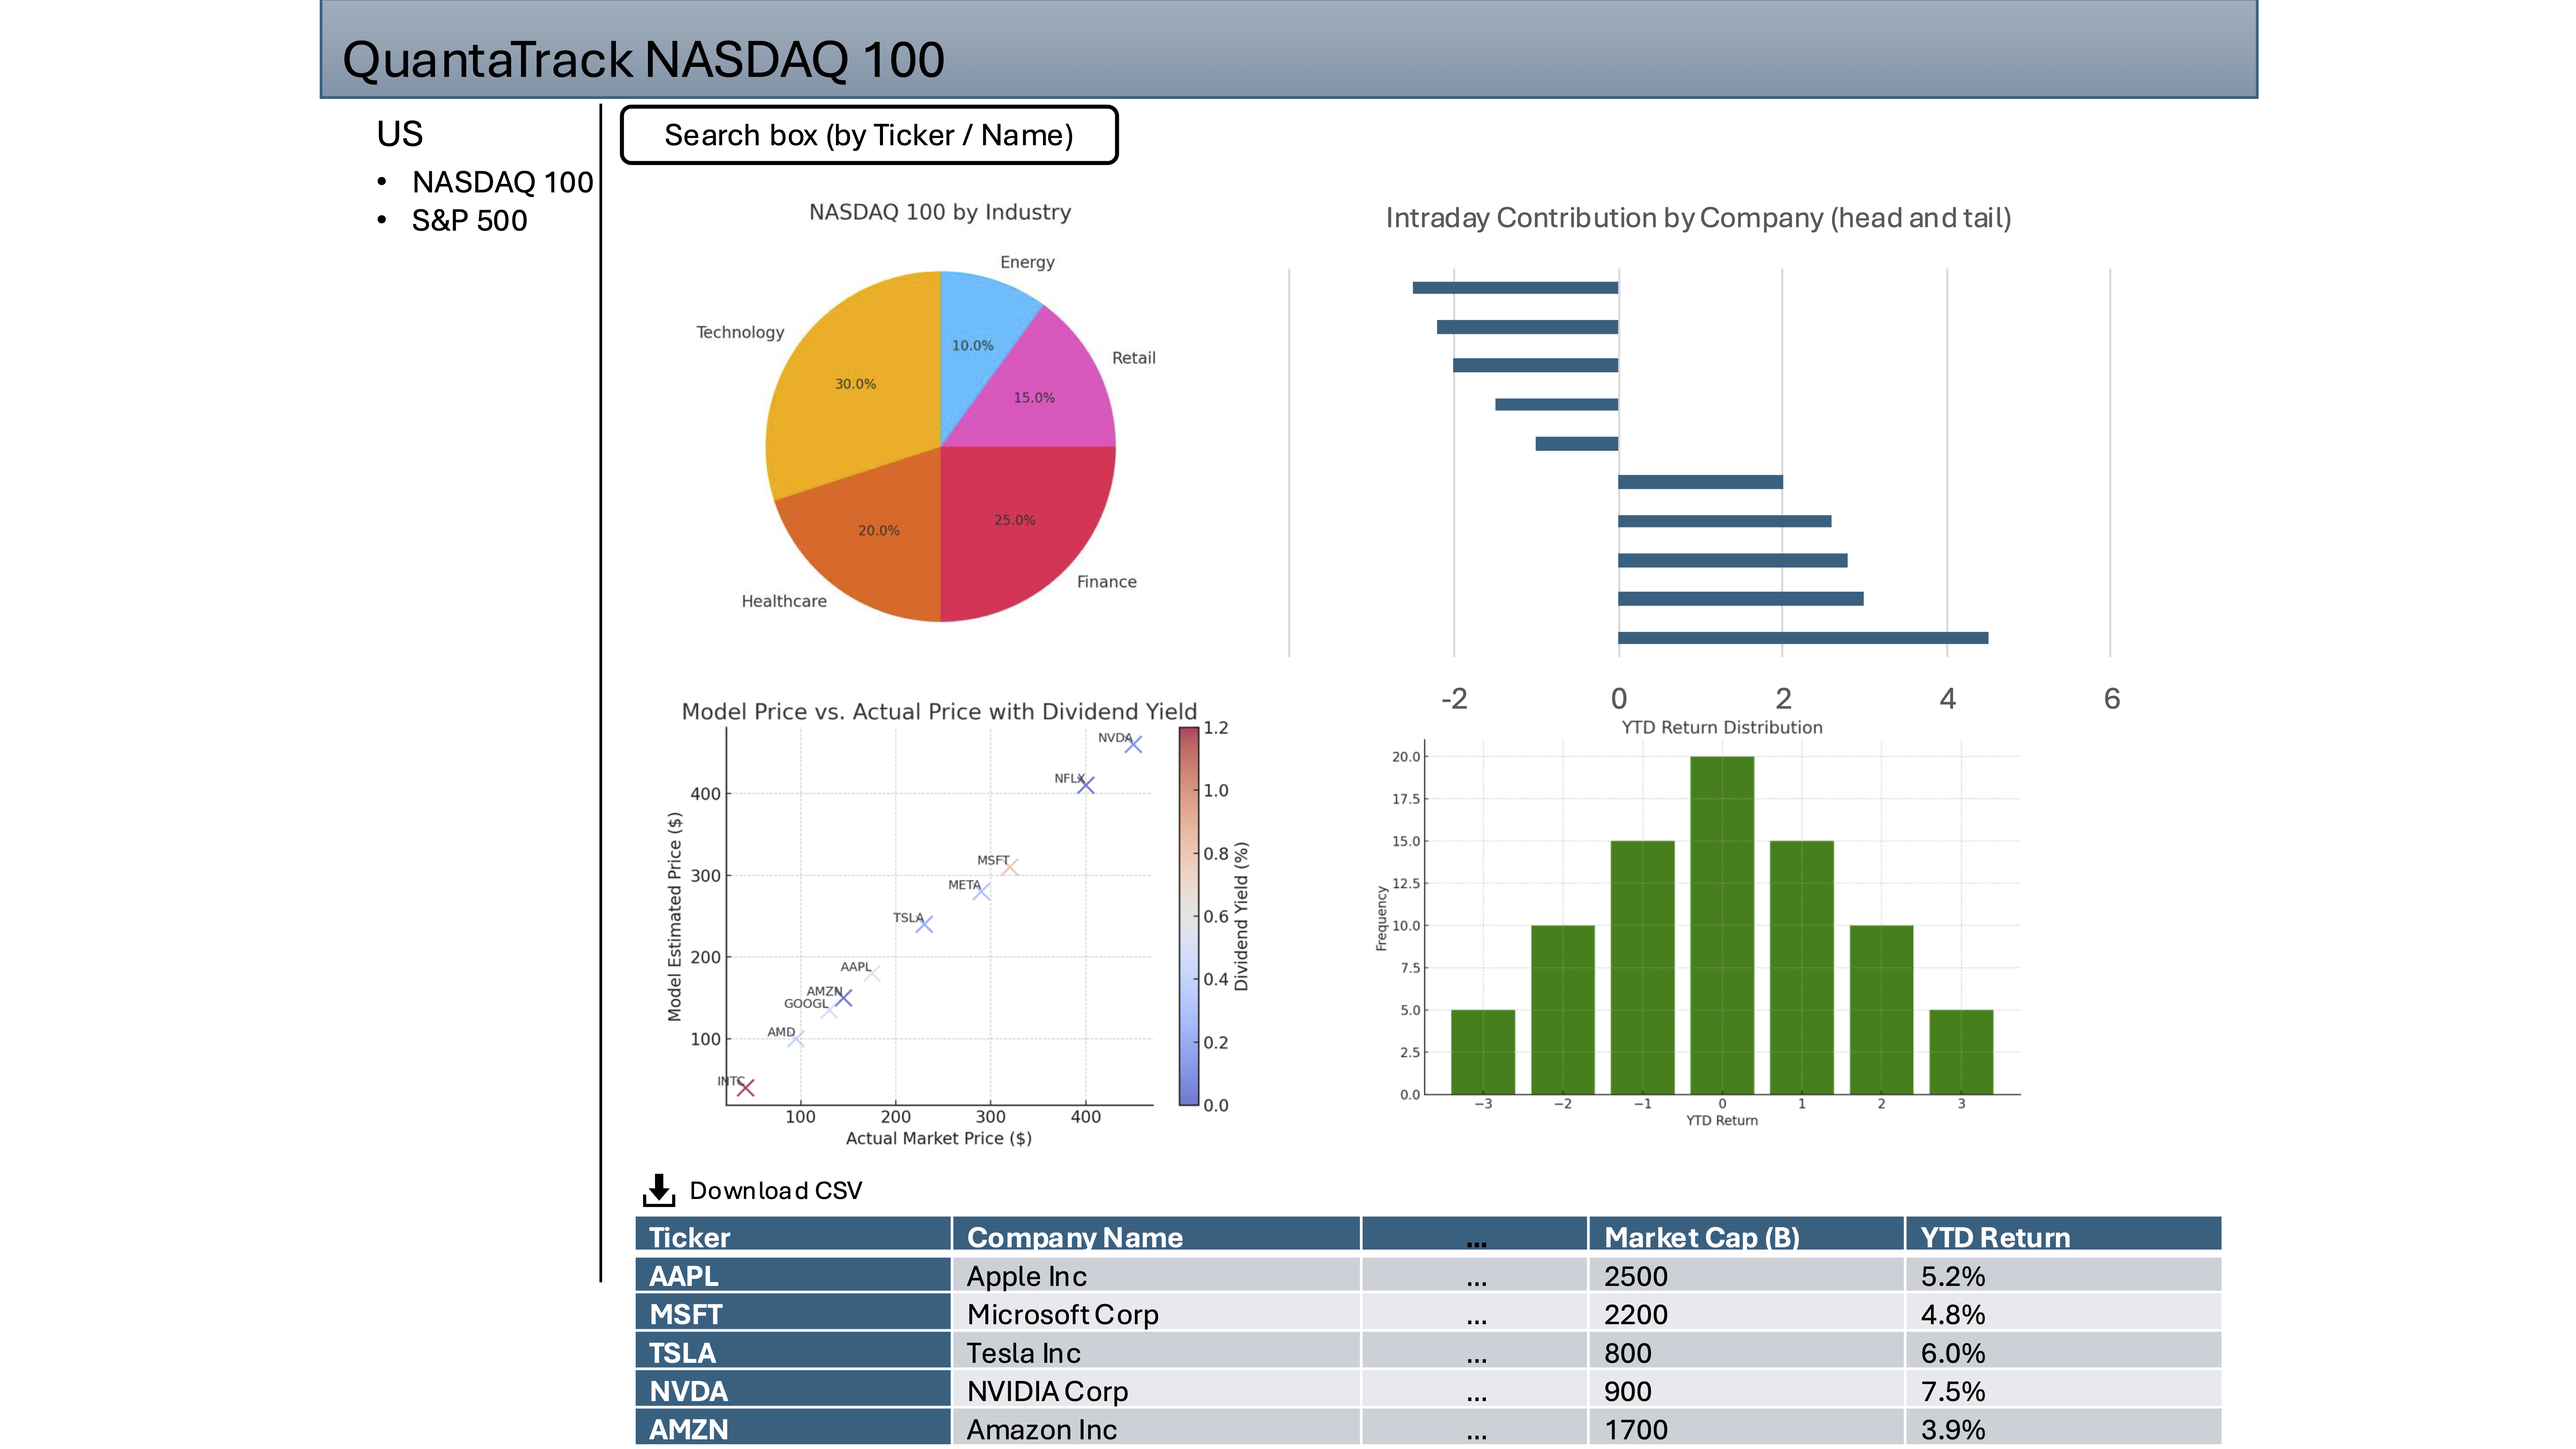
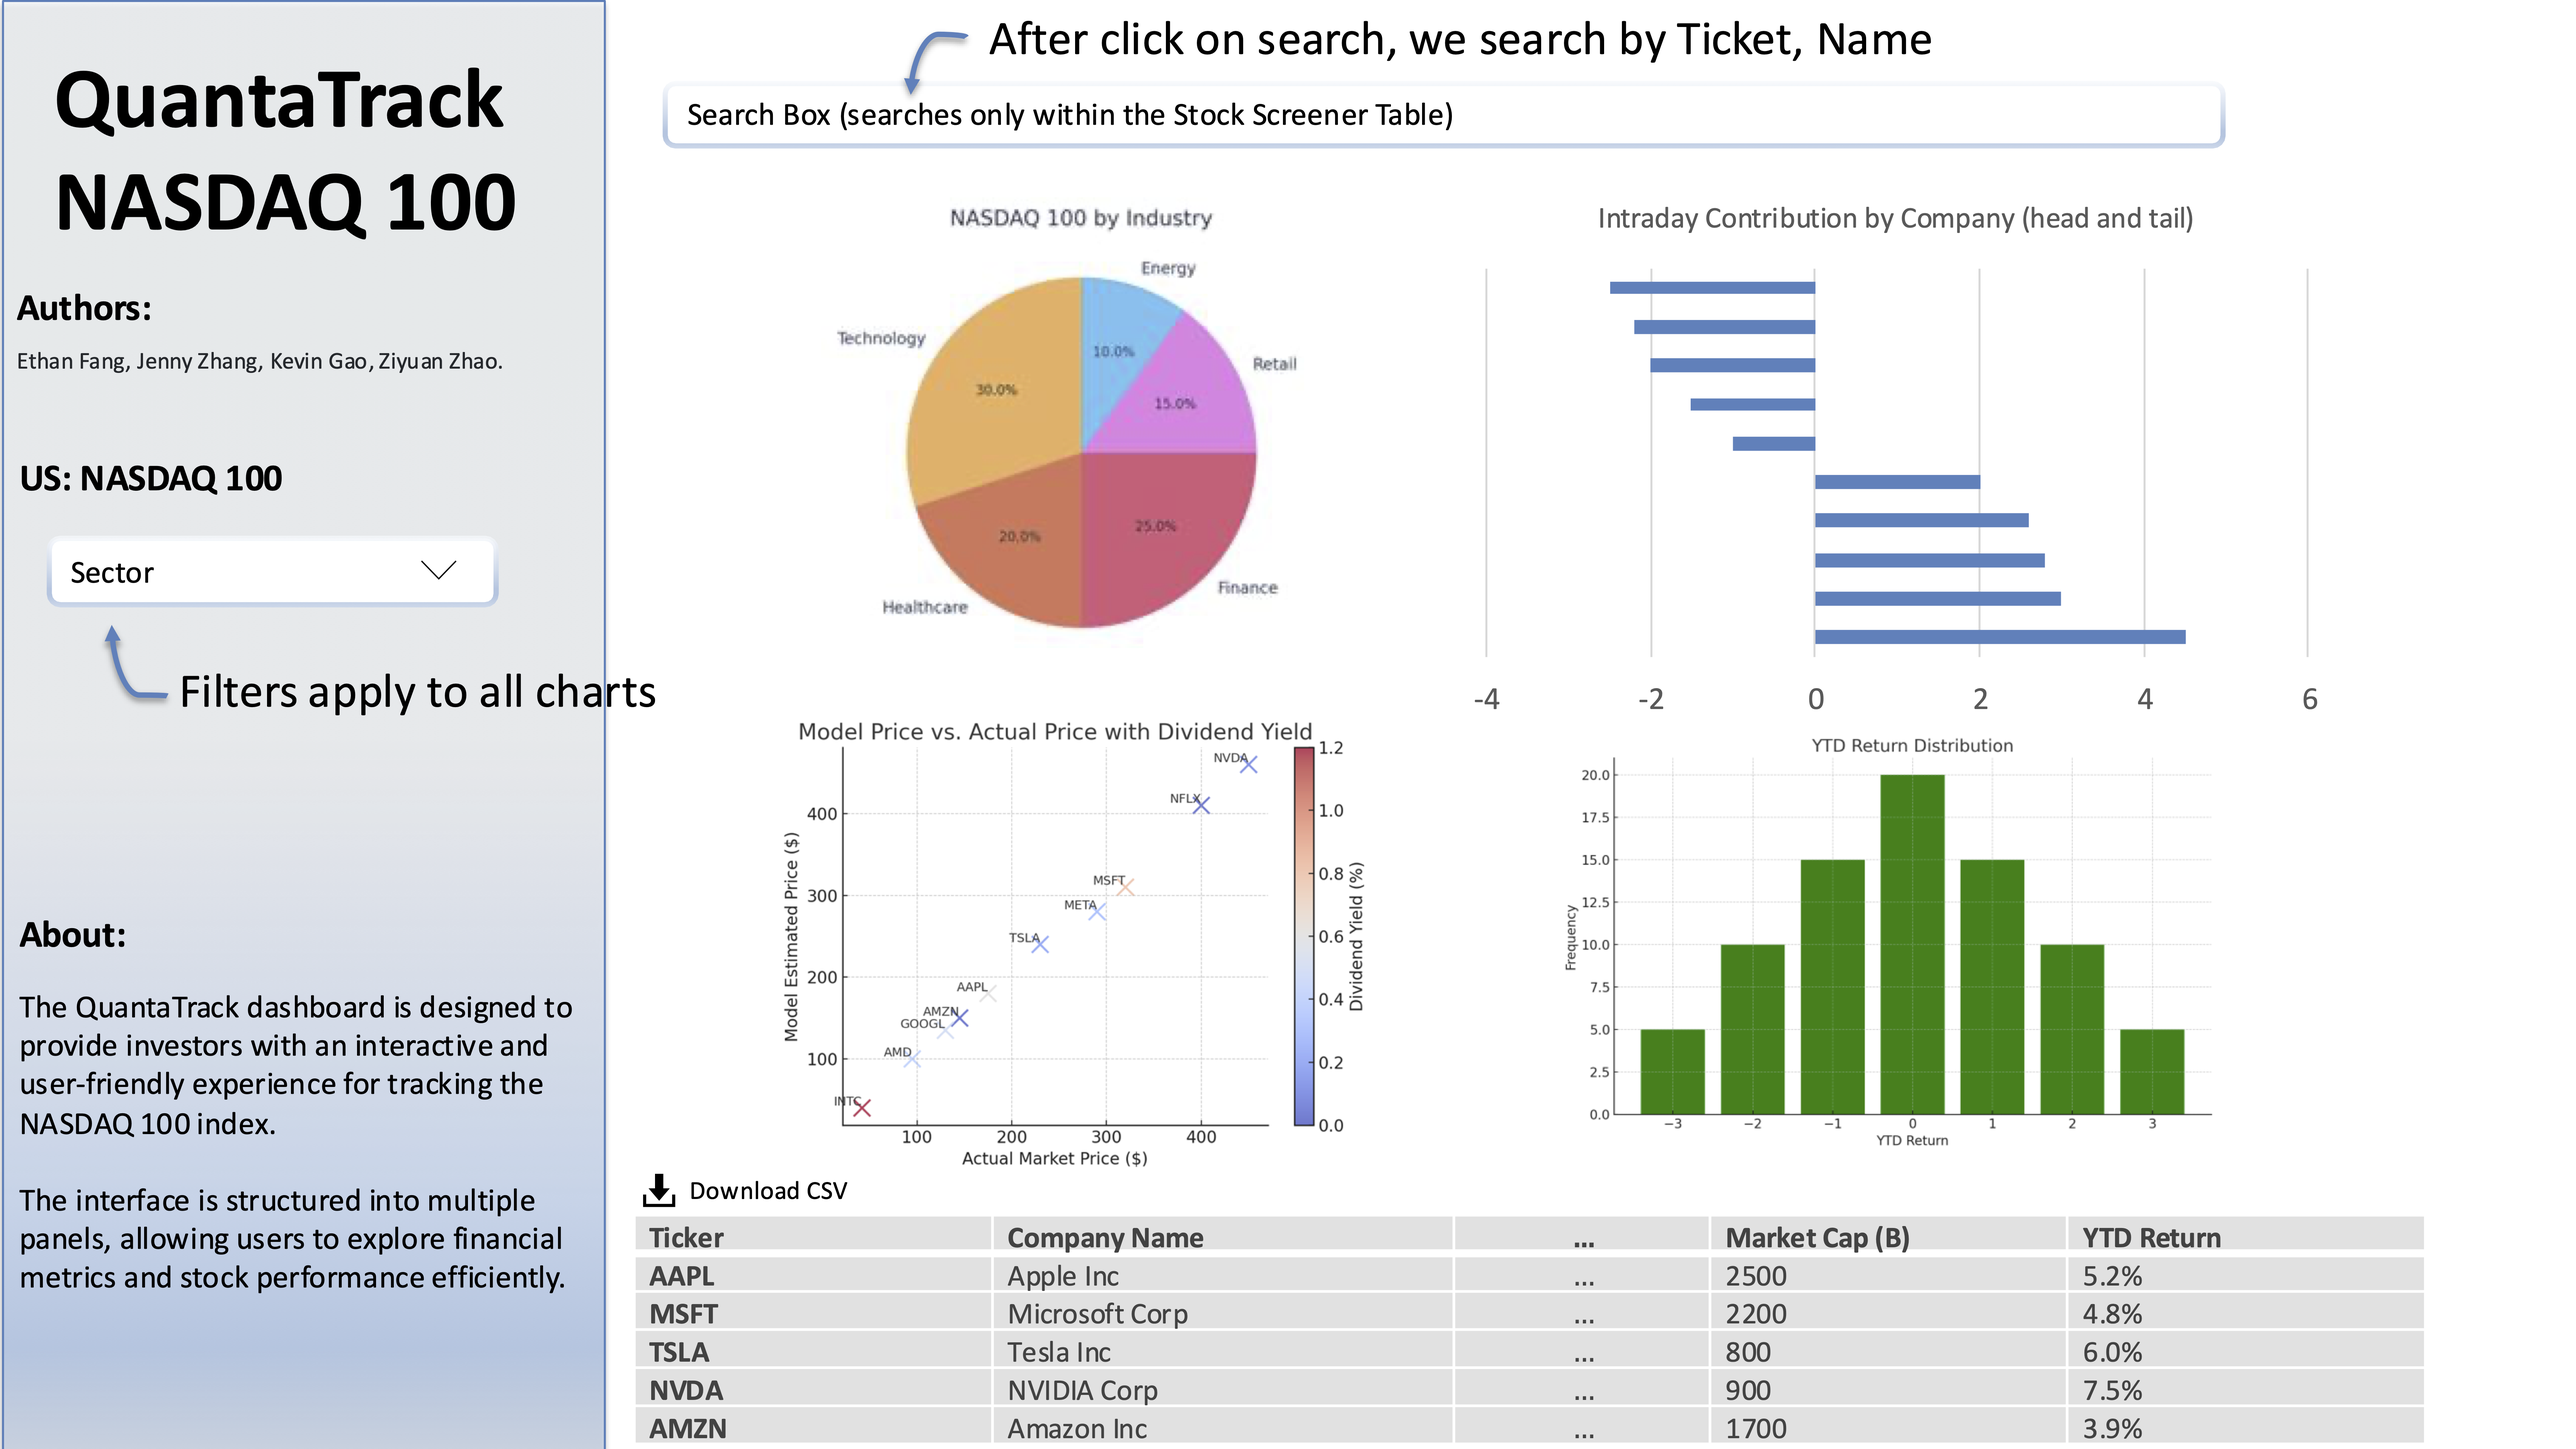
new sketch

diff --git a/reports/m1_proposal.md b/reports/m1_proposal.md
@@ -46,7 +46,7 @@ Next, John dives deeper into the intraday return metric and notices that Tesla I
 
 The QuantaTrack dashboard is designed to provide investors with an interactive and user-friendly experience for tracking the NASDAQ 100 index. The interface is structured into multiple panels, allowing users to explore financial metrics and stock performance efficiently.
 
-- **Filters & Controls Panel:** This section enables users to refine their analysis by filtering companies based on sector, selecting a specific index (NASDAQ 100 or S&P 500), and searching for companies by ticker or name. These tools ensure that users can easily focus on relevant data.
+- **Filters & Controls Panel:** This section enables users to refine their analysis by filtering companies based on sector, selecting a specific index (NASDAQ 100), and searching for companies by ticker or name. These tools ensure that users can easily focus on relevant data.
 
 - **NASDAQ 100 by Industry (Pie Chart):** This visualization represents the sectoral composition of the NASDAQ 100, helping users understand the weight of different industries in the index.
 
